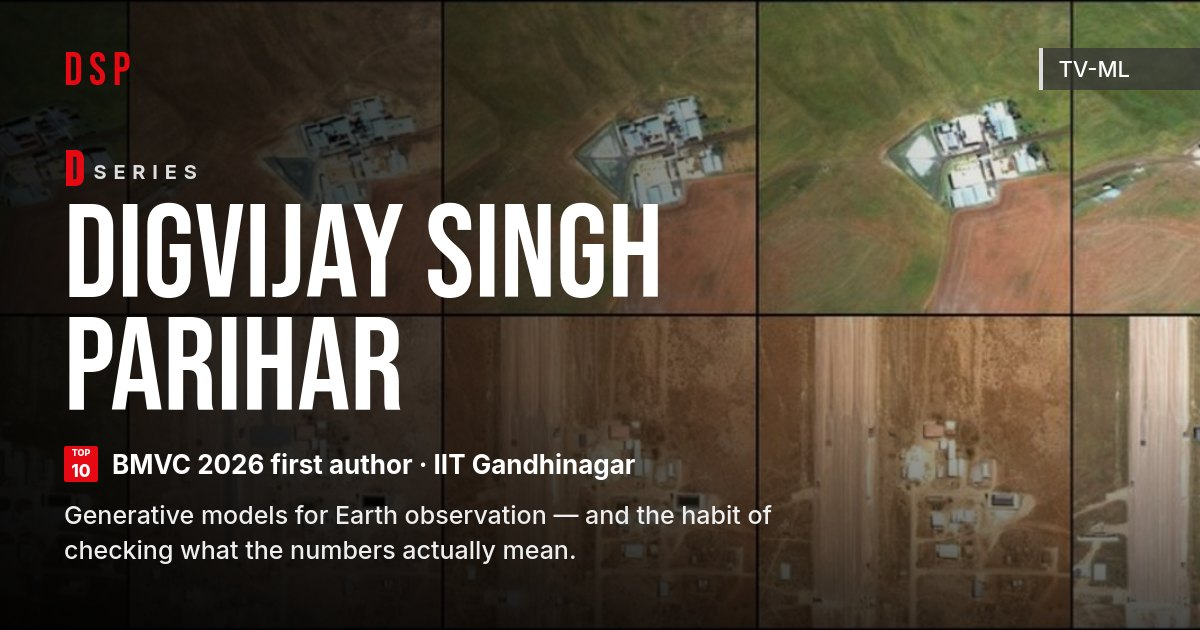
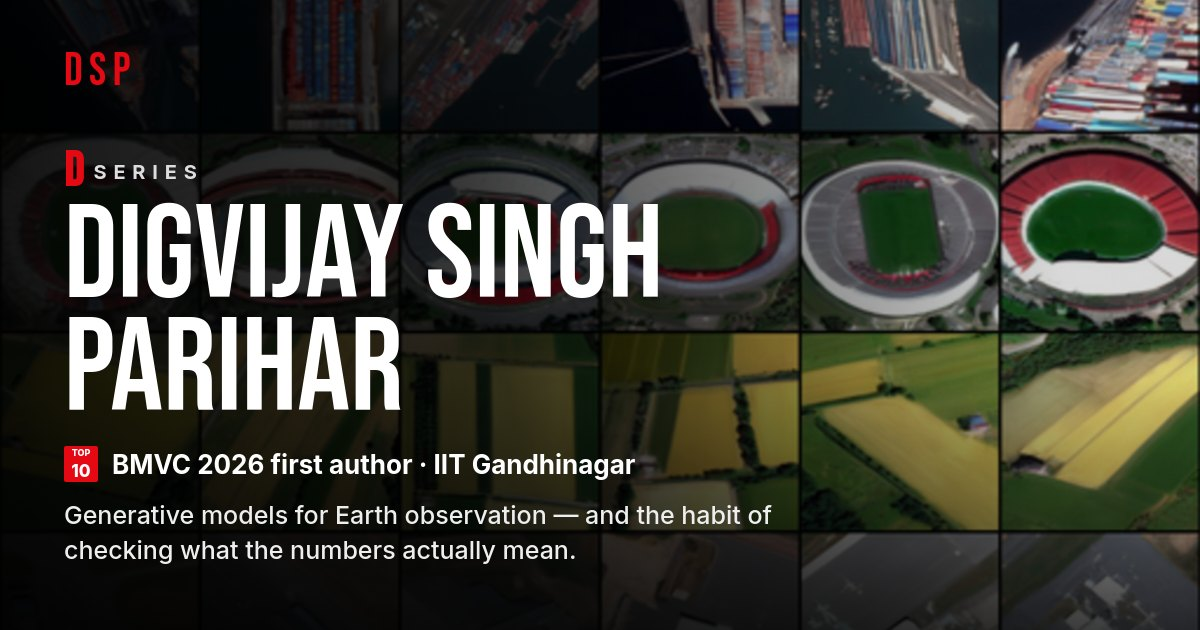
Publication-grade FlowSat imagery; drop GeoDiff and the node editor
Every FlowSat image is now a native-resolution sample from the released
125K checkpoint, taken from the candidates generated for the BMVC teaser:
stadiums, ports, farmland and airports. They replace the upscaled
gallery crops in the billboard, the FlowSat card and poster, the modal
backdrop, the episode thumbnails, two trailer shots and the share card,
and the FlowSat modal gains a six-image Stills section with the prompts
that produced them. FlowSat-C's card is a crisp GSD sweep instead of a
soft mosaic.

GeoDiff and the node-graph image editor are no longer being worked on,
so they are gone from the catalogue, the season guide, the rows, the
prerendered text and the footer.

diff --git a/data.js b/data.js
@@ -35,8 +35,8 @@ const SERIES = {
   genres: ["Generative AI", "Earth Observation", "Research that ships"],
   moods: ["Investigative", "Technical", "Curious"],
   backdrops: [
+    "assets/art/hero_flowsat_grid.jpg",
     "assets/art/hero_ports.jpg",
-    "assets/art/hero_grid.jpg",
     "assets/art/hero_sweeps.jpg",
   ],
   logline:
@@ -58,12 +58,13 @@ const TRAILER = [
     line: "257,248 satellite images.",
     sub: "198 countries, 57,294 distinct places, one curated training set. The job: teach a model what the planet looks like.",
     title: "flowsat-c" },
-  { bg: "assets/art/hero_grid.jpg", kicker: "FlowSat",
+  { bg: "assets/art/hero_flowsat_grid.jpg", kicker: "FlowSat",
+    frames: ["assets/flowsat/stadium_c.jpg", "assets/flowsat/farm_a.jpg", "assets/flowsat/port_b.jpg"],
     line: "Name a place, a date, a resolution.",
     sub: "It paints the satellite image that should be there.",
     title: "flowsat" },
-  { bg: "assets/art/hero_flowsat.jpg", kicker: "BMVC 2026 · first author",
-    frames: ["assets/art/flowsat_gallery_01.jpg", "assets/art/fs_02.jpg", "assets/art/flowsat_compare_a.jpg"],
+  { bg: "assets/art/hero_flowsat_grid.jpg", kicker: "BMVC 2026 · first author",
+    frames: ["assets/flowsat/air_a.jpg", "assets/flowsat/stadium_a.jpg", "assets/flowsat/farm_c.jpg"],
     line: "20 steps. The baseline needs 100.",
     sub: "FID 28.74 on the released checkpoint (31.10 as submitted) against DiffusionSat's 35.27. Weights are public.",
     title: "flowsat" },
@@ -108,16 +109,16 @@ const TITLES = [
     badge: "BMVC 2026",
     match: 98,
     duration: "Published · first author",
-    tags: ["Generative AI", "Diffusion & Flow Matching", "Remote Sensing", "PyTorch"],
+    tags: ["Generative AI", "Diffusion & Flow Matching", "Remote Sensing", "Computer Vision", "PyTorch"],
     genres: ["Generative AI", "Remote Sensing", "Peer-reviewed"],
     moods: ["Elegant", "Fast", "Geometric"],
     contains: "spherical coordinates, zero-initialised layers, 20-step sampling",
     cast: "Digvijay Singh Parihar (first author), Rishabh Mondal, Nipun Batra · Sustainability Lab, IIT Gandhinagar",
     dial: true,
     bibtex: "@inproceedings{parihar2026flowsat,\n  title     = {FlowSat: Flow-Matching Diffusion Transformers with Metadata\n               Conditioning for Satellite Image Generation},\n  author    = {Parihar, Digvijay Singh and Mondal, Rishabh and Batra, Nipun},\n  booktitle = {British Machine Vision Conference (BMVC)},\n  year      = {2026}\n}",
-    art: "assets/art/flowsat_gallery_05.jpg",
-    poster: "assets/art/flowsat_gallery_01.jpg",
-    backdrop: "assets/art/hero_grid.jpg",
+    art: "assets/art/flowsat_card.jpg",
+    poster: "assets/flowsat/stadium_c.jpg",
+    backdrop: "assets/art/hero_flowsat_grid.jpg",
     logline:
       "Give it a caption plus where, when and at what resolution — it paints the satellite image. " +
       "Resolution it obeys reliably; season, cloud and place far less, which became the thesis.",
@@ -139,11 +140,20 @@ const TITLES = [
       ["11× fewer", "metadata-encoder parameters than SatCLIP"],
     ],
     episodes: [
-      ["Geometry-aware metadata", "Coordinates live on a sphere and dates on a circle; encode them that way instead of as bare floats.", "assets/art/flowsat_gallery_01.jpg"],
-      ["Zero-initialised grafts", "New conditioning enters the pretrained AdaLN modulation pathway at exactly zero, so the first training step cannot damage the base model.", "assets/art/fs_02.jpg"],
-      ["Flow matching, not denoising", "A straight-line probability path gets usable samples in 20 steps rather than 100. 125K optimiser steps, bf16, multi-GPU with Accelerate.", "assets/art/flowsat_gallery_07.jpg"],
-      ["It generalises", "Trained on FMoW-RGB, still coherent zero-shot on the out-of-domain RSICD benchmark.", "assets/art/flowsat_gallery_03.jpg"],
+      ["Geometry-aware metadata", "Coordinates live on a sphere and dates on a circle; encode them that way instead of as bare floats.", "assets/flowsat/port_a.jpg"],
+      ["Zero-initialised grafts", "New conditioning enters the pretrained AdaLN modulation pathway at exactly zero, so the first training step cannot damage the base model.", "assets/flowsat/stadium_b.jpg"],
+      ["Flow matching, not denoising", "A straight-line probability path gets usable samples in 20 steps rather than 100. 125K optimiser steps, bf16, multi-GPU with Accelerate.", "assets/flowsat/farm_b.jpg"],
+      ["It generalises", "Trained on FMoW-RGB, still coherent zero-shot on the out-of-domain RSICD benchmark.", "assets/flowsat/air_b.jpg"],
     ],
+    gallery: [
+      ["assets/flowsat/stadium_c.jpg", "“A large oval sports stadium seen from directly overhead…” — 512 px, 20 Euler steps."],
+      ["assets/flowsat/port_b.jpg", "“A working container port on a calm dark harbour…” — rows of containers in reds and blues."],
+      ["assets/flowsat/farm_a.jpg", "“Irrigated farmland at the height of summer…” — the patchwork, hedgerows and a farm building."],
+      ["assets/flowsat/air_a.jpg", "“A regional airport in clear midday light…” — runway markings and hangars."],
+      ["assets/flowsat/stadium_e.jpg", "Same stadium prompt, another seed: layout varies, the category holds."],
+      ["assets/flowsat/port_d.jpg", "Same port prompt, another seed: quays, cranes and a pier from above."],
+    ],
+    galleryNote: "FlowSat's own samples from the released 125K checkpoint — teaser candidates for the paper",
     links: [
       ["Open the project page", "https://dsp81.github.io/flowsat-satellite-image/", "play"],
       ["Code", "https://github.com/dsp81/flowsat-satellite-image", "code"],
@@ -163,13 +173,13 @@ const TITLES = [
     progress: 45,
     duration: "Master's thesis · Sustainability Lab",
     tags: ["Generative AI", "Diffusion & Flow Matching", "Remote Sensing", "Research",
-           "Interpretability"],
+           "Interpretability", "Evaluation"],
     genres: ["Generative AI", "Interpretability", "Thesis"],
     moods: ["Investigative", "Ambitious", "Self-critical"],
     contains: "spherical harmonics, a model caught ignoring its inputs, one deleted pathway",
     cast: "Digvijay Singh Parihar · advised by Prof. Nipun Batra",
-    art: "assets/art/flowsatc_geo.jpg",
-    poster: "assets/art/flowsatc_season.jpg",
+    art: "assets/art/flowsatc_card.jpg",
+    poster: "assets/art/flowsatc_poster.jpg",
     backdrop: "assets/art/hero_sweeps.jpg",
     dial: true,
     logline:
@@ -220,7 +230,7 @@ const TITLES = [
       ["assets/art/flowsatc_season.jpg", "Season sweep on fixed scenes and seeds."],
     ],
     links: [["Sustainability Lab", "https://sustainability-lab.github.io/", "code"]],
-    related: ["flowsat", "geodiff", "diffusion-guide"],
+    related: ["flowsat", "diffusion-guide", "povrl"],
   },
   {
     id: "povrl",
@@ -231,7 +241,7 @@ const TITLES = [
     rating: "Reproduction",
     match: 95,
     duration: "AAAI 2021 reproduction · 318 Uganda clusters",
-    tags: ["Reinforcement Learning", "Remote Sensing", "Object Detection", "Honest Results"],
+    tags: ["Reinforcement Learning", "Remote Sensing", "Computer Vision", "Object Detection", "Evaluation"],
     genres: ["Reinforcement Learning", "Remote Sensing", "AI for social good"],
     moods: ["Frugal", "Rigorous", "Candid"],
     contains: "policy gradients, seven random seeds, a negative result reported anyway",
@@ -436,86 +446,8 @@ const TITLES = [
     ],
     links: [],
     noLinks: true,
-    related: ["yourtts", "node-editor"],
+    related: ["yourtts", "diffusion-guide"],
     relatedText: "Client work, so no public link — the details are on the résumé.",
-  },
-  {
-    id: "node-editor",
-    kind: "pilot",
-    title: "Node Graph Image Editor",
-    sub: "C++ · Qt · OpenCV — image processing as a wired graph",
-    year: "2025",
-    rating: "Pilot",
-    badge: "Pilot",
-    match: 86,
-    duration: "Side project · C++17",
-    tags: ["C++", "Qt", "OpenCV", "Graph execution"],
-    genres: ["Systems", "Tooling", "Computer Vision"],
-    moods: ["Hands-on", "Architectural", "Low-level"],
-    contains: "a DAG, a topological sort, pointers",
-    cast: "Digvijay Singh Parihar",
-    art: "assets/art/node_card.jpg",
-    poster: "assets/art/node_card.jpg",
-    backdrop: "assets/art/node_card.jpg",
-    logline:
-      "Instead of filter → undo → retry, wire blur, threshold and blend nodes into a graph and " +
-      "let a DAG engine evaluate it.",
-    synopsis:
-      "A desktop image-manipulation tool in C++ with Qt for the canvas and OpenCV for the " +
-      "operations. Each node is an atomic operation with its own parameters; connections compile " +
-      "into a directed acyclic graph that is topologically sorted and executed. The pilot ships " +
-      "the CMake build, the Qt canvas and the node infrastructure; the execution engine is the " +
-      "next episode.",
-    stats: [
-      ["C++ · Qt", "custom canvas and node rendering"],
-      ["DAG engine", "topological execution of OpenCV ops"],
-      ["CMake", "cross-platform build"],
-    ],
-    episodes: [
-      ["Setup", "CMake build, Qt window, custom canvas and event loop."],
-      ["Node infrastructure", "Base class and registry, pins, drag interaction."],
-      ["Operations", "Grayscale, blur, sharpen, edges — each a node with sliders."],
-      ["Execution engine", "Parse the wiring into a DAG, sort it, run it."],
-    ],
-    links: [["Code", "https://github.com/dsp81/Node-based-image-processor", "play"]],
-    related: ["zelite", "hsi"],
-  },
-  {
-    id: "geodiff",
-    kind: "coming",
-    title: "GeoDiff",
-    sub: "Diffusion that draws a city's roads from its terrain",
-    year: "Coming soon",
-    rating: "In development",
-    badge: "Coming soon",
-    match: 94,
-    progress: 20,
-    duration: "Research · in development",
-    tags: ["Diffusion", "Graph Generation", "Geospatial"],
-    genres: ["Generative AI", "Graphs", "Geospatial"],
-    moods: ["Ambitious", "Spatial", "Early"],
-    contains: "graph diffusion, elevation fields, what-if generation",
-    cast: "Digvijay Singh Parihar",
-    art: "assets/art/geodiff_roads.jpg",
-    poster: "assets/art/geodiff_roads.jpg",
-    backdrop: "assets/art/geodiff_roads.jpg",
-    logline:
-      "Give it elevation, water and population. It draws the road network — and redraws it " +
-      "when you move the river.",
-    synopsis:
-      "Conditional diffusion for spatially embedded road-network graphs, conditioned on " +
-      "continuous geographic fields. Two stages: one diffuses node positions, the other diffuses " +
-      "the adjacency. The point is what baselines cannot do — complete a half-drawn network, and " +
-      "answer what-if questions by perturbing the terrain and resampling.",
-    stats: [],
-    episodes: [
-      ["Field binding", "First gate: prove the model actually responds to the terrain before scaling anything."],
-      ["Real cities", "Then real road networks and elevation data."],
-    ],
-    links: [],
-    noLinks: true,
-    related: ["flowsat-c", "flowsat"],
-    relatedText: "Early-stage research. Ask about it in an interview.",
   },
 ];
 
@@ -552,8 +484,6 @@ const TRAIT_MAP = {
   "hsi":             { diffusion: 0.9, vision: 1.0, "remote-sensing": 0.7, generative: 0.6,
                        research: 0.6, evaluation: 0.4 },
   "zelite":          { agents: 1.0, software: 1.0, shipping: 1.0, speech: 0.3, evaluation: 0.5 },
-  "node-editor":     { software: 1.0, vision: 0.6, shipping: 0.3 },
-  "geodiff":         { generative: 0.9, diffusion: 0.9, research: 0.5, "remote-sensing": 0.5 },
 };
 
 /* ── the series, season by season ────────────────────────────────────────────── */
@@ -571,9 +501,8 @@ const SEASONS = [
   },
   {
     label: "Season 2", years: "2025", name: "The build-up",
-    blurb: "Speech, spectra, agents and policies — five different fields in one year, on purpose.",
+    blurb: "Speech, spectra, agents and policies — four different fields in one year, on purpose.",
     eps: [
-      ["Node Graph Image Editor", "Apr 2025", "A C++/Qt/OpenCV side project: image processing as a wired DAG.", "node-editor"],
       ["Zelite Solutions", "May – Jun 2025", "Ships an LLM research agent at a Microsoft Solutions Partner. Hours become minutes.", "zelite"],
       ["Spectral Diffusion", "Jun 2025", "Hyperspectral denoising with unmixing priors at CVIG, with Prof. Shanmuganathan Raman.", "hsi"],
       ["YourTTS Hindi", "2025", "Zero-shot voice cloning, taught Devanagari. MOS 4.44.", "yourtts"],
@@ -588,7 +517,6 @@ const SEASONS = [
       ["FlowSat", "2026", "Flow-matching transformers for satellite imagery, with Rishabh Mondal and Nipun Batra. Accepted at BMVC 2026, first author.", "flowsat"],
       ["Diffusion Models, Explained", "2026", "Eight interactive chapters, written and built solo.", "diffusion-guide"],
       ["FlowSat-C", "Jan 2026 —", "Master's thesis at the Sustainability Lab: controllable metadata conditioning on a 4B backbone.", "flowsat-c"],
-      ["GeoDiff", "Coming soon", "Diffusion over road-network graphs, conditioned on terrain.", "geodiff"],
     ],
   },
 ];
@@ -762,7 +690,7 @@ const SKILLS = [
   ["LLM agents", "retrieval, schema-driven extraction", "llm", "#6b3fb8"],
   ["Speech synthesis", "VITS, YourTTS, speaker encoders", "speech", "#1d8fb8"],
   ["Evaluation", "controllability probes, seeds, error bars", "evaluation", "#8a8a1d"],
-  ["Python · C++ · MATLAB", "and Verilog, when provoked", "c++", "#555566"],
+  ["Python · C++ · MATLAB", "and Verilog, when provoked", "code", "#555566"],
   ["Explaining things", "guides, reports, visualisations", "writing", "#b83a3a"],
 ];
 
@@ -789,42 +717,41 @@ const TRACKS = {
     pitch:
       "First author at BMVC 2026, an LLM automation platform built in industry, four live project " +
       "pages plus code and weights. If you watch one thing, make it the 45-second trailer.",
-    rows: ["top", "numbers", "experience", "continue", "skills", "vault", "academics", "cinema", "interests"],
+    rows: ["top", "numbers", "experience", "skills", "vault", "academics", "cinema", "interests"],
   },
   researcher: {
     label: "Researcher",
     pitch:
       "Flow-matching transformers for Earth observation, a controllability benchmark that does " +
       "not trust FID, and a reproduction that publishes its own negative result.",
-    rows: ["top", "numbers", "experience", "continue", "vault", "skills", "cinema", "academics", "interests"],
+    rows: ["top", "numbers", "experience", "vault", "skills", "cinema", "academics", "interests"],
   },
   engineer: {
     label: "Engineer",
     pitch:
       "Multi-GPU training over 257K images, an LLM research agent built in industry, and " +
       "four live project pages plus public code and weights.",
-    rows: ["top", "skills", "experience", "continue", "numbers", "vault", "academics", "interests", "cinema"],
+    rows: ["top", "skills", "experience", "numbers", "vault", "academics", "interests", "cinema"],
   },
   browsing: {
     label: "Just browsing",
     pitch:
       "Start with the trailer — then the diffusion guide, which explains the rest and has " +
       "things to drag.",
-    rows: ["top", "cinema", "numbers", "interests", "skills", "experience", "continue", "vault", "academics"],
+    rows: ["top", "cinema", "numbers", "interests", "skills", "experience", "vault", "academics"],
   },
 };
 
 
 const ROWS = {
   mylist:     { label: "My List", kind: "mylist" },
-  continue:   { label: "In production", ids: ["flowsat-c", "geodiff"], kind: "continue" },
   top:        { label: "Top 5 projects today", ids: ["flowsat", "flowsat-c", "povrl", "yourtts", "diffusion-guide"], kind: "top" },
   picks:      { label: "{picks}", kind: "picks" },
   numbers:    { label: "By the numbers", kind: "numbers" },
   experience: { label: "Experience", kind: "experience" },
   skills:     { label: "Browse by skill", kind: "skills",
                 note: "Pick one and the catalogue filters to the work that uses it." },
-  vault:      { label: "More from the vault", ids: ["hsi", "zelite", "node-editor", "diffusion-guide"] },
+  vault:      { label: "More from the vault", ids: ["hsi", "zelite", "diffusion-guide", "yourtts"] },
   academics:  { label: "Academics & honours", kind: "academics" },
   interests:  { label: "Off the clock", kind: "interests" },
   cinema:     { label: "Because you watched…", kind: "cinema",

diff --git a/index.html b/index.html
@@ -22,7 +22,7 @@
 <link rel="preconnect" href="https://fonts.gstatic.com" crossorigin>
 <link href="https://fonts.googleapis.com/css2?family=Bebas+Neue&family=Inter:wght@400;500;600;700;800&display=swap" rel="stylesheet">
 <link rel="preload" as="image" href="assets/art/hero_ports.jpg">
-<link rel="stylesheet" href="styles.css?v=20260926-134051">
+<link rel="stylesheet" href="styles.css?v=20260926-135310">
 <script type="application/ld+json">
 {"@context":"https://schema.org","@type":"Person","name":"Digvijay Singh Parihar",
  "url":"https://dsp81.github.io/","email":"mailto:digvijaysingh.parihar@iitgn.ac.in",
@@ -117,8 +117,6 @@
 <h3>Diffusion Models, Explained (2026, Interactive)</h3><p><i>Removing noise to make an image.</i> A long-form interactive guide to diffusion models, from why noise is the right thing to destroy, through the forward and reverse processes, the loss derivation, a single timestep in full, why the noise is Gaussian, and where flow matching goes next. Draggable noise schedules, playable sampling trajectories, and a conversational voice that assumes curiosity rather than a measure-theory course.</p><p>Key numbers: 8 chapters — problem → derivation → flow matching; Interactive — draggable schedules, playable sampling; From scratch — written, illustrated and built solo</p><p>Credits: Written, illustrated and built by Digvijay Singh Parihar</p><p><a href="https://diffusionguidedj.netlify.app/">Read the guide</a></p>
 <h3>Spectral Diffusion (2025, Research poster)</h3><p><i>Unmixing priors for hyperspectral image denoising.</i> Built on Diff-Unmix (CVPR 2024): the noisy hyperspectral cube is decomposed into spectral endmembers (pure material spectra) and abundance maps, and a DDPM-based reverse process denoises the abundances while the spectra stay intact. The additions: SVD thresholding on the abundance maps to strip small singular values before diffusion, a spectral transformer block for band-wise self-attention, and a multi-loss objective mixing MSE with a VGG16 perceptual term. Self-supervised — it never needs a clean ground truth.</p><p>Key numbers: +3.6 dB — PSNR over the Diff-Unmix baseline, as reported on the poster; 0.925 → 0.947 — SSIM, baseline → ours; 0 clean refs — self-supervised end to end</p><p>Credits: Digvijay Singh Parihar · Akbar Ali · advised by Prof. Shanmuganathan Raman</p><p><a href="https://github.com/dsp81/Denoising-Hyperspectral-Imagery">Code</a></p>
 <h3>LLM Research Agent (2025, Internship)</h3><p><i>Software engineering intern · Zelite Solutions.</i> An end-to-end automation platform at a Microsoft Solutions Partner that orchestrates web retrieval, LLM inference and structured extraction. The agent is modular: search depth, query strategy and context budget are all adjustable, output is schema-driven JSON, and local models (DeepSeek-R1, Mistral-7B, Phi-3) were benchmarked head to head against cloud OpenAI models.</p><p>Key numbers: Hours → minutes — under five, end to end; 4+ models — local and cloud, benchmarked; Schema-driven — JSON out, not prose</p><p>Credits: Digvijay Singh Parihar · Zelite Solutions (Microsoft Solutions Partner)</p>
-<h3>Node Graph Image Editor (2025, Pilot)</h3><p><i>C++ · Qt · OpenCV — image processing as a wired graph.</i> A desktop image-manipulation tool in C++ with Qt for the canvas and OpenCV for the operations. Each node is an atomic operation with its own parameters; connections compile into a directed acyclic graph that is topologically sorted and executed. The pilot ships the CMake build, the Qt canvas and the node infrastructure; the execution engine is the next episode.</p><p>Key numbers: C++ · Qt — custom canvas and node rendering; DAG engine — topological execution of OpenCV ops; CMake — cross-platform build</p><p>Credits: Digvijay Singh Parihar</p><p><a href="https://github.com/dsp81/Node-based-image-processor">Code</a></p>
-<h3>GeoDiff (Coming soon, In development)</h3><p><i>Diffusion that draws a city&#x27;s roads from its terrain.</i> Conditional diffusion for spatially embedded road-network graphs, conditioned on continuous geographic fields. Two stages: one diffuses node positions, the other diffuses the adjacency. The point is what baselines cannot do — complete a half-drawn network, and answer what-if questions by perturbing the terrain and resampling.</p><p>Credits: Digvijay Singh Parihar</p>
 <h2>Experience</h2>
 <h3>Student Researcher — Master&#x27;s thesis — Sustainability Lab, IIT Gandhinagar (Jan 2026 — present)</h3><ul><li>Leading thesis work on controllable, metadata-conditioned generative models for Earth observation on a 4B-parameter FLUX.2 backbone.</li><li>Designing a controllability benchmark that quantifies per-field causal effects instead of trusting FID.</li><li>Extending the flow-matching transformer to image-to-image: temporal inpainting, temporal generation, GSD-controlled super-resolution and change-guided generation.</li></ul>
 <h3>Software Engineering Intern — Zelite Solutions (Microsoft Solutions Partner) (May — June 2025)</h3><ul><li>Designed and built an end-to-end AI automation platform orchestrating web retrieval, LLM inference and structured information extraction.</li><li>Engineered a modular agent with adjustable search depth, query strategies and context budgets, token-efficient prompting and schema-driven JSON generation.</li><li>Benchmarked local models (DeepSeek-R1, Mistral-7B, Phi-3) against cloud OpenAI models, taking multi-hour company research workflows to under five minutes.</li></ul>
@@ -189,7 +187,7 @@
     <p class="foot-note">
       Built from scratch — no framework, no build step. A Netflix-inspired layout, not affiliated
       with or endorsed by Netflix; no Netflix assets or code are used. The imagery is the projects'
-      own output — model samples, spectrograms, figures — apart from the illustrated title cards for GeoDiff, the Zelite agent and the node editor. The % match is an overlap score between what you pick in Tune results and each project — a sorting aid, not a verdict. <a href="https://github.com/dsp81/dsp81.github.io" target="_blank" rel="noopener">Source</a>
+      own output — model samples, spectrograms, figures — apart from the illustrated title card for the Zelite agent. The % match is an overlap score between what you pick in Tune results and each project — a sorting aid, not a verdict. <a href="https://github.com/dsp81/dsp81.github.io" target="_blank" rel="noopener">Source</a>
     </p>
     <p class="foot-name" id="footName"></p>
   </div>
@@ -261,7 +259,7 @@
 <div class="toast" id="toast" role="status" aria-live="polite" hidden></div>
 
 
-<script src="data.js?v=20260926-134051"></script>
-<script src="app.js?v=20260926-134051"></script>
+<script src="data.js?v=20260926-135310"></script>
+<script src="app.js?v=20260926-135310"></script>
 </body>
 </html>

diff --git a/plain.html b/plain.html
@@ -19,8 +19,6 @@ a{color:#b20710}.back{display:inline-block;margin-bottom:24px;font-size:14px}@me
 <h3>Diffusion Models, Explained (2026, Interactive)</h3><p><i>Removing noise to make an image.</i> A long-form interactive guide to diffusion models, from why noise is the right thing to destroy, through the forward and reverse processes, the loss derivation, a single timestep in full, why the noise is Gaussian, and where flow matching goes next. Draggable noise schedules, playable sampling trajectories, and a conversational voice that assumes curiosity rather than a measure-theory course.</p><p>Key numbers: 8 chapters — problem → derivation → flow matching; Interactive — draggable schedules, playable sampling; From scratch — written, illustrated and built solo</p><p>Credits: Written, illustrated and built by Digvijay Singh Parihar</p><p><a href="https://diffusionguidedj.netlify.app/">Read the guide</a></p>
 <h3>Spectral Diffusion (2025, Research poster)</h3><p><i>Unmixing priors for hyperspectral image denoising.</i> Built on Diff-Unmix (CVPR 2024): the noisy hyperspectral cube is decomposed into spectral endmembers (pure material spectra) and abundance maps, and a DDPM-based reverse process denoises the abundances while the spectra stay intact. The additions: SVD thresholding on the abundance maps to strip small singular values before diffusion, a spectral transformer block for band-wise self-attention, and a multi-loss objective mixing MSE with a VGG16 perceptual term. Self-supervised — it never needs a clean ground truth.</p><p>Key numbers: +3.6 dB — PSNR over the Diff-Unmix baseline, as reported on the poster; 0.925 → 0.947 — SSIM, baseline → ours; 0 clean refs — self-supervised end to end</p><p>Credits: Digvijay Singh Parihar · Akbar Ali · advised by Prof. Shanmuganathan Raman</p><p><a href="https://github.com/dsp81/Denoising-Hyperspectral-Imagery">Code</a></p>
 <h3>LLM Research Agent (2025, Internship)</h3><p><i>Software engineering intern · Zelite Solutions.</i> An end-to-end automation platform at a Microsoft Solutions Partner that orchestrates web retrieval, LLM inference and structured extraction. The agent is modular: search depth, query strategy and context budget are all adjustable, output is schema-driven JSON, and local models (DeepSeek-R1, Mistral-7B, Phi-3) were benchmarked head to head against cloud OpenAI models.</p><p>Key numbers: Hours → minutes — under five, end to end; 4+ models — local and cloud, benchmarked; Schema-driven — JSON out, not prose</p><p>Credits: Digvijay Singh Parihar · Zelite Solutions (Microsoft Solutions Partner)</p>
-<h3>Node Graph Image Editor (2025, Pilot)</h3><p><i>C++ · Qt · OpenCV — image processing as a wired graph.</i> A desktop image-manipulation tool in C++ with Qt for the canvas and OpenCV for the operations. Each node is an atomic operation with its own parameters; connections compile into a directed acyclic graph that is topologically sorted and executed. The pilot ships the CMake build, the Qt canvas and the node infrastructure; the execution engine is the next episode.</p><p>Key numbers: C++ · Qt — custom canvas and node rendering; DAG engine — topological execution of OpenCV ops; CMake — cross-platform build</p><p>Credits: Digvijay Singh Parihar</p><p><a href="https://github.com/dsp81/Node-based-image-processor">Code</a></p>
-<h3>GeoDiff (Coming soon, In development)</h3><p><i>Diffusion that draws a city&#x27;s roads from its terrain.</i> Conditional diffusion for spatially embedded road-network graphs, conditioned on continuous geographic fields. Two stages: one diffuses node positions, the other diffuses the adjacency. The point is what baselines cannot do — complete a half-drawn network, and answer what-if questions by perturbing the terrain and resampling.</p><p>Credits: Digvijay Singh Parihar</p>
 <h2>Experience</h2>
 <h3>Student Researcher — Master&#x27;s thesis — Sustainability Lab, IIT Gandhinagar (Jan 2026 — present)</h3><ul><li>Leading thesis work on controllable, metadata-conditioned generative models for Earth observation on a 4B-parameter FLUX.2 backbone.</li><li>Designing a controllability benchmark that quantifies per-field causal effects instead of trusting FID.</li><li>Extending the flow-matching transformer to image-to-image: temporal inpainting, temporal generation, GSD-controlled super-resolution and change-guided generation.</li></ul>
 <h3>Software Engineering Intern — Zelite Solutions (Microsoft Solutions Partner) (May — June 2025)</h3><ul><li>Designed and built an end-to-end AI automation platform orchestrating web retrieval, LLM inference and structured information extraction.</li><li>Engineered a modular agent with adjustable search depth, query strategies and context budgets, token-efficient prompting and schema-driven JSON generation.</li><li>Benchmarked local models (DeepSeek-R1, Mistral-7B, Phi-3) against cloud OpenAI models, taking multi-hour company research workflows to under five minutes.</li></ul>

diff --git a/app.js b/app.js
@@ -786,7 +786,7 @@ function openModal(id) {
       <div class="sec-head"><h3>Episodes</h3><span>${esc(t.title)}</span></div>
       ${episodeList(t.episodes || [], t)}
     </div>
-    ${(t.gallery || []).length ? `<div class="modal-sec"><div class="sec-head"><h3>Stills</h3><span>generated or measured, not stock</span></div>
+    ${(t.gallery || []).length ? `<div class="modal-sec"><div class="sec-head"><h3>Stills</h3><span>${esc(t.galleryNote || "generated or measured, not stock")}</span></div>
       <div class="gallery">${t.gallery.map(([src, cap]) =>
         `<figure><img src="${src}" alt="${esc(cap)}" loading="lazy"><figcaption>${esc(cap)}</figcaption></figure>`).join("")}</div></div>` : ""}
     <div class="modal-sec">

diff --git a/README.md b/README.md
@@ -38,8 +38,8 @@ replaces the monogram in the cast list.
 - `?p=recruiter` · `?p=researcher` · `?p=engineer` · `?p=browsing` — open a specific cut,
   skipping the profile picker. Handy for sending someone a tailored link.
 - `#trailer` — straight into the trailer. `#about` — the series page (seasons, cast).
-- `#flowsat`, `#flowsat-c`, `#povrl`, `#yourtts`, `#diffusion-guide`, `#hsi`, `#zelite`,
-  `#node-editor`, `#geodiff` — open a title's detail view.
+- `#flowsat`, `#flowsat-c`, `#povrl`, `#yourtts`, `#diffusion-guide`, `#hsi`, `#zelite`
+  — open a title's detail view.
 - `?q=diffusion` — open with a search.
 - `?intro=1` replays the opening titles, `?intro=0` skips them.
 
